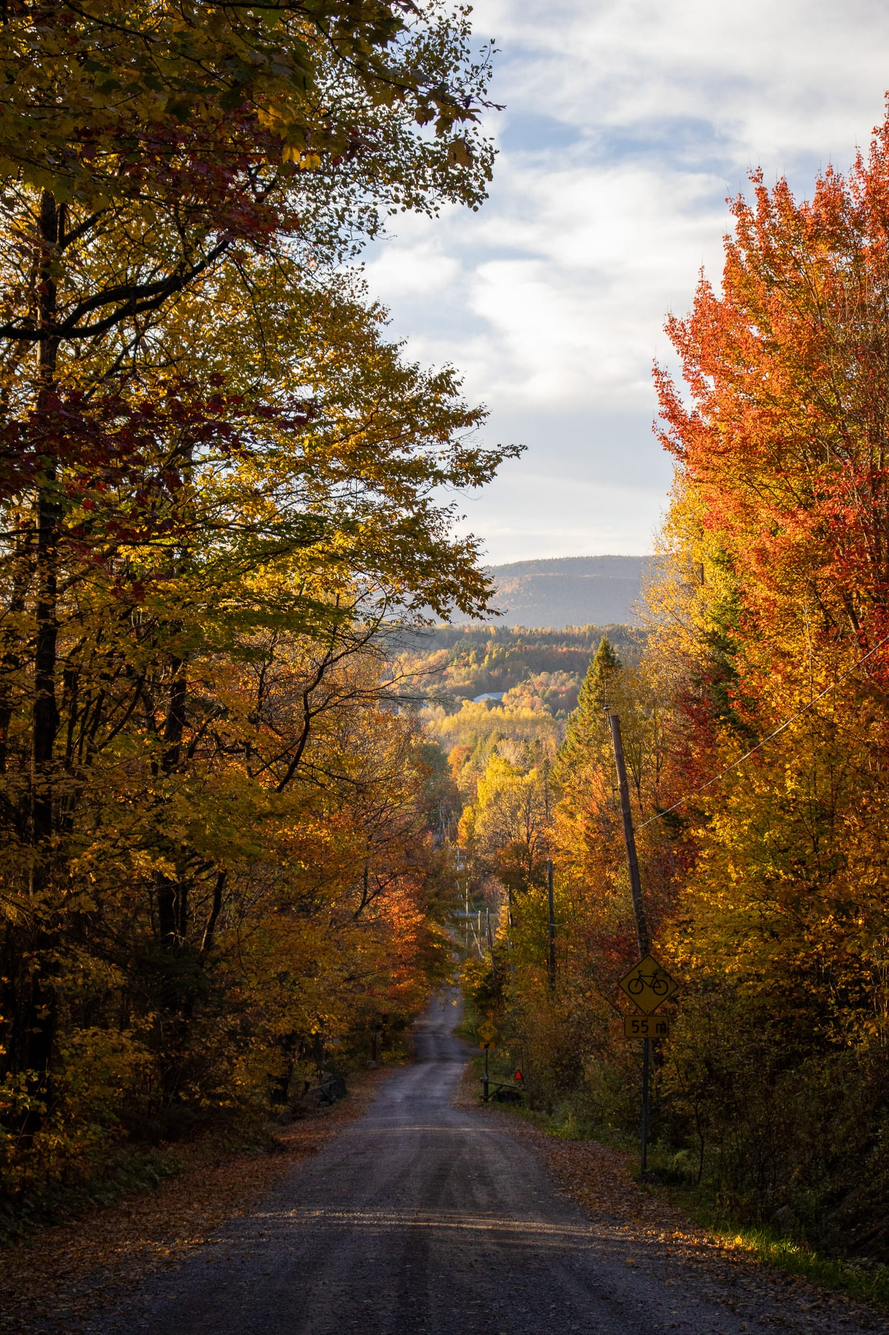
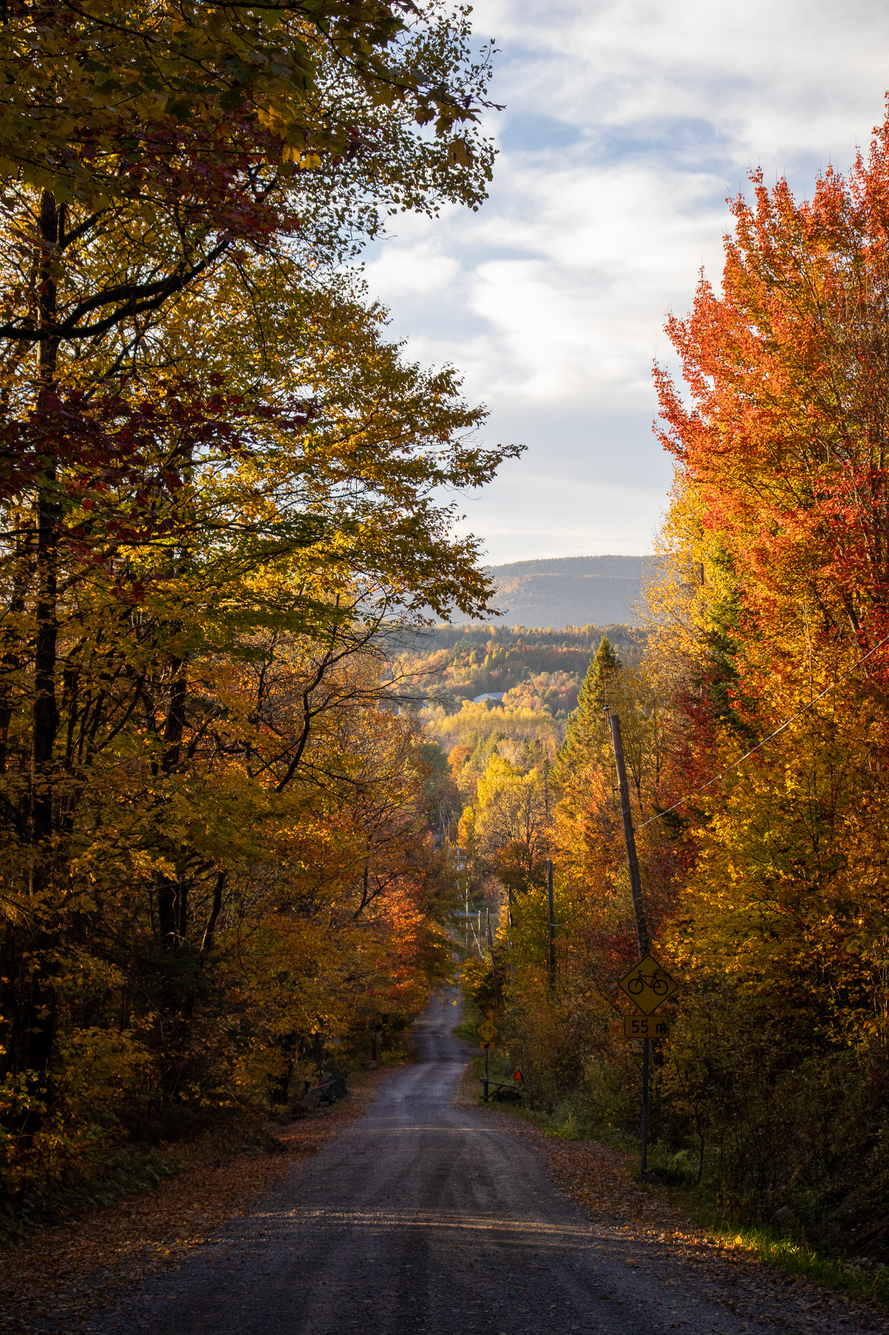
feat: hero page Apprendre avec photo paysage automne
Made-with: Cursor

diff --git a/src/pages/Apprendre.tsx b/src/pages/Apprendre.tsx
@@ -16,6 +16,7 @@ import imgUrgence from "@/assets/galerie-urgence-ete.jpg";
 import imgDeneigement from "@/assets/galerie-urgence-hiver.jpg";
 import imgDeneigementCorde from "@/assets/déneigement_sur_la_code.png";
 import imgEcureuil from "@/assets/Apprendre - bas de page .jpg";
+import heroBg from "@/assets/realisation - paysage automne.jpg";
 
 import { PageHero } from "@/components/PageHero";
 import { ParallaxImageBand } from "@/components/ParallaxImageBand";
@@ -484,7 +485,7 @@ const Apprendre = () => {
   return (
     <div>
       {/* ── Hero ──────────────────────────────────────────────── */}
-      <PageHero image={imgTaille} imagePositionMobile="center 48%" imagePositionDesktop="center 42%" className="min-h-[50vh] md:min-h-[55vh]">
+      <PageHero image={heroBg} imagePositionMobile="center 40%" imagePositionDesktop="center 35%" className="min-h-[50vh] md:min-h-[55vh]">
         <div className="inline-flex items-center gap-2 text-accent font-bold text-xs uppercase tracking-widest mb-6 bg-accent/15 border border-accent/20 px-4 py-1.5 rounded-full">
           Guide complet
         </div>
